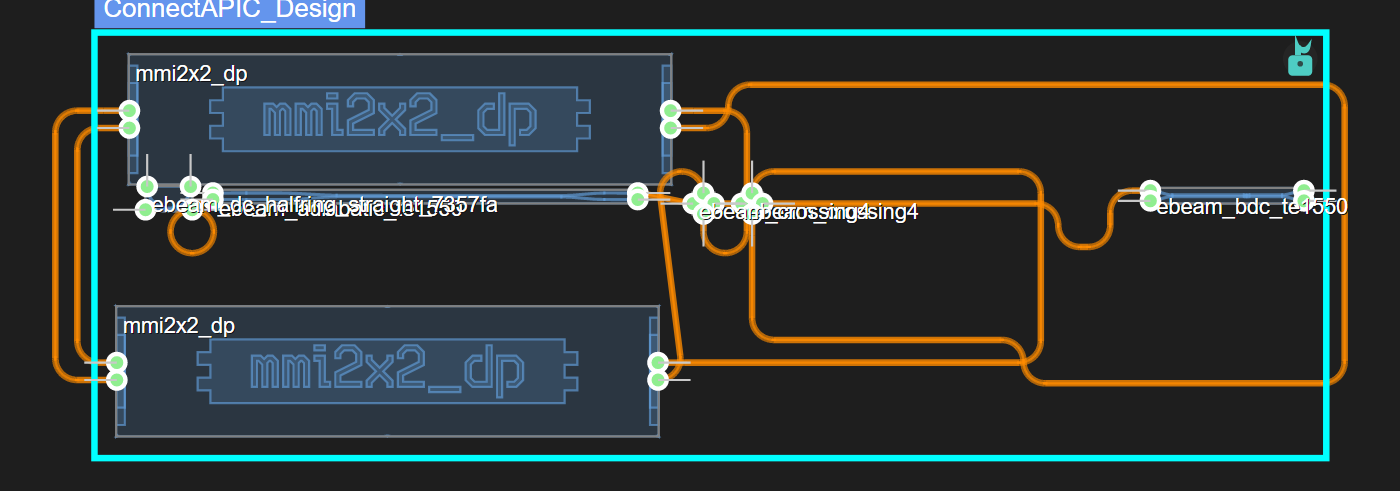
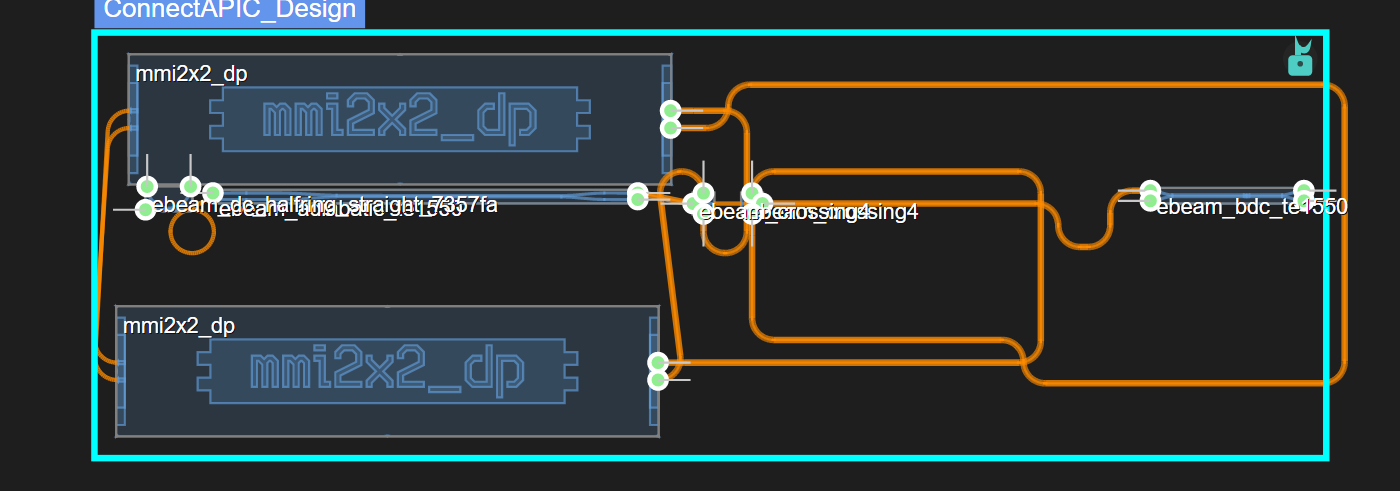
test: pin route-derived restoration in visual panels; realistic post-rotation pin offsets in GC fixture (#811)

Changed region(s): [[0.0307, 0.2138, 0.1229, 0.7943], [0.1229, 0.3971, 0.1843, 0.5193], [0.4914, 0.3971, 0.5529, 0.4277]]

diff --git a/UnitTests/UI/GdsRoundTripVisualVerificationTests.cs b/UnitTests/UI/GdsRoundTripVisualVerificationTests.cs
@@ -193,10 +193,13 @@ public class GdsRoundTripVisualVerificationTests : IDisposable
         // ── 9. Sanity + per-panel pixel assertions ──
         reportOff.PlacedCount.ShouldBe(7);
         reportOff.GroupCreated.ShouldBeTrue();
-        reportOff.ConnectedCount.ShouldBe(0, "no abutment connections exist in this spaced design");
+        reportOff.ConnectedCount.ShouldBe(siepicUpgraded ? 4 : 2,
+            "route-derived structural restoration: the two MMI braids (both scenarios); plus " +
+            "crossing↔crossing and halfring↔adiabatic when the real SiEPIC cells carry labels");
         reportOff.AutoConnectedCount.ShouldBe(0);
         reportOn.PlacedCount.ShouldBe(7);
-        reportOn.AutoConnectedCount.ShouldBe(siepicUpgraded ? 2 : 0);
+        reportOn.AutoConnectedCount.ShouldBe(0,
+            "nothing left for auto-connect: the formerly restored spans (7 and 10) are route-derived now");
 
         var probes = new Probes(original, canvasOff, canvasOn, shared, importedWorld, scale);
         AssertPanel01(panel1, path1, panelSize, probes);
@@ -563,7 +566,7 @@ public class GdsRoundTripVisualVerificationTests : IDisposable
         CountWhere(panel, probes.AroundPlacedMmiCenter(), IsOutlineFill)
             .ShouldBeGreaterThan(30, "the placed mmi1 renders its imported GDS outline fill");
         CountExternalPinPixels(panel, size)
-            .ShouldBeGreaterThan(30, "all 28 pins are free — every unoccupied group pin renders green");
+            .ShouldBeGreaterThan(30, "the unoccupied pins render green (route-derived connections occupy some)");
         probes.ImportedRouteProbes.ShouldNotBeEmpty(
             "the top cell's own waveguide polygons import as pin-less frozen paths");
         for (var polyIndex = 0; polyIndex < probes.ImportedRouteProbes.Count; polyIndex++)
@@ -590,27 +593,20 @@ public class GdsRoundTripVisualVerificationTests : IDisposable
     {
         AssertFileIsRealPng(path);
 
-        if (!siepicUpgraded)
-        {
-            // Bare-nazca environment: the ambiguity guard refuses every twin-poisoned
-            // pair — the panel honestly shows zero RESTORED connections, but the
-            // imported route outlines still render (they are geometry, not connections).
-            probes.FrozenRouteProbes.ShouldBeEmpty();
-            CountWhere(panel, Full(size), IsFrozenOrange)
-                .ShouldBeGreaterThan(50, "the imported route outlines render even when nothing is restored");
-            return;
-        }
-
-        reportOn.AutoConnectedCount.ShouldBe(2);
-        probes.FrozenRouteProbes.Count.ShouldBe(2, "the two restored connections are frozen into the group");
+        reportOn.AutoConnectedCount.ShouldBe(0,
+            "auto-connect has nothing left: connections 7 and 10 come back route-derived");
+        var expectedConnections = siepicUpgraded ? 4 : 2;
+        probes.FrozenRouteProbes.Count.ShouldBe(expectedConnections,
+            "the route-derived real connections live on the group (2 MMI braids; plus " +
+            "crossing↔crossing and halfring↔adiabatic when the real SiEPIC cells carry labels)");
         foreach (var points in probes.FrozenRouteProbes)
             points.Any(p => CountWhere(panel, probes.AroundImportedRoute(p), IsFrozenOrange) > 0)
-                .ShouldBeTrue("each restored connection renders as an orange frozen path " +
-                    "(crossing↔crossing 12.8 µm, halfring↔adiabatic 10.6 µm)");
+                .ShouldBeTrue("each route-derived connection renders as an orange routed path");
         CountWhere(panel, Full(size), IsFrozenOrange)
-            .ShouldBeGreaterThan(50, "the two restored spans are drawn as frozen group-internal paths");
+            .ShouldBeGreaterThan(50, "the restored connections and frozen outlines are drawn");
         CountExternalPinPixels(panel, size)
-            .ShouldBeLessThan(panel3PinPixels, "the 2 restored connections occupy 4 of the 28 free pins");
+            .ShouldBe(panel3PinPixels,
+                "auto-connect occupies no extra pins — panels 03 and 04 have the same free-pin count");
         AssertEmptyCorner(panel, size);
     }
 

diff --git a/UnitTests/Services/GratingCouplerRotationTests.cs b/UnitTests/Services/GratingCouplerRotationTests.cs
@@ -24,14 +24,19 @@ public class GratingCouplerRotationTests
         var parts = new Part[1, 1];
         parts[0, 0] = new Part(new List<Pin>());
 
+        // App convention (RotateComponentCommand): pin offsets are stored POST-rotation
+        // (rotated about the component centre). The exporter's GetUnrotatedPinOffset
+        // recovers the unrotated frame from them — so a 180° fixture must pre-rotate
+        // the authored offset (50,15) about the centre (25,15) → (0,15).
+        var isRotated180 = ((int)rotationDegrees % 360 + 360) % 360 == 180;
         var physicalPins = new List<PhysicalPin>
         {
             new PhysicalPin
             {
                 Name = "opt",
-                OffsetXMicrometers = 50,  // Right edge
-                OffsetYMicrometers = 15,  // Middle (height=30)
-                AngleDegrees = 0          // Pointing right
+                OffsetXMicrometers = isRotated180 ? 0 : 50,  // Right edge (unrotated)
+                OffsetYMicrometers = 15,  // Middle (height=30) — invariant under 180° about (25,15)
+                AngleDegrees = 0  // Local angle stays unrotated; GetAbsoluteAngle adds RotationDegrees
             }
         };
 
